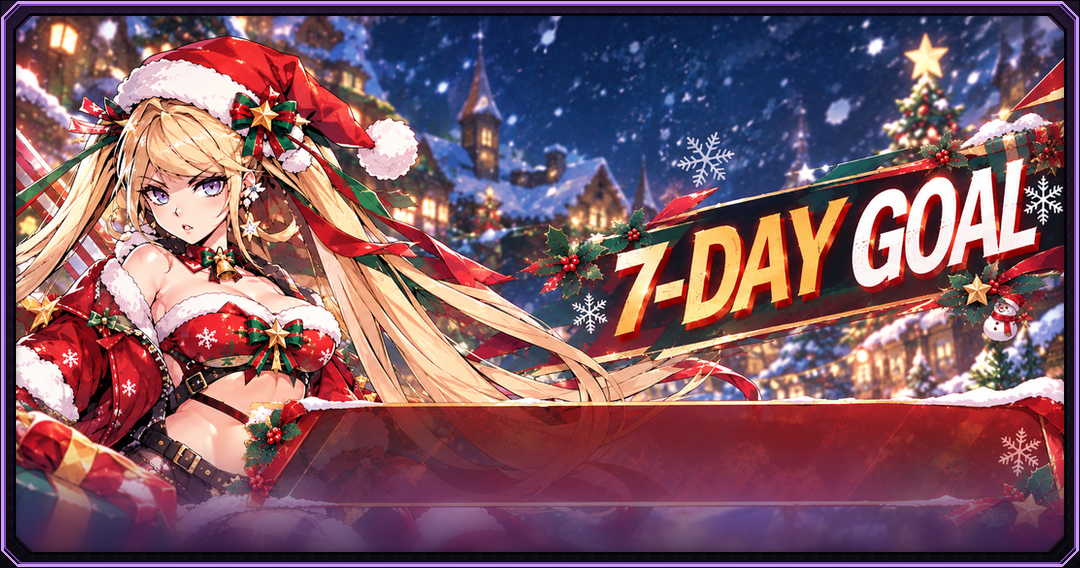
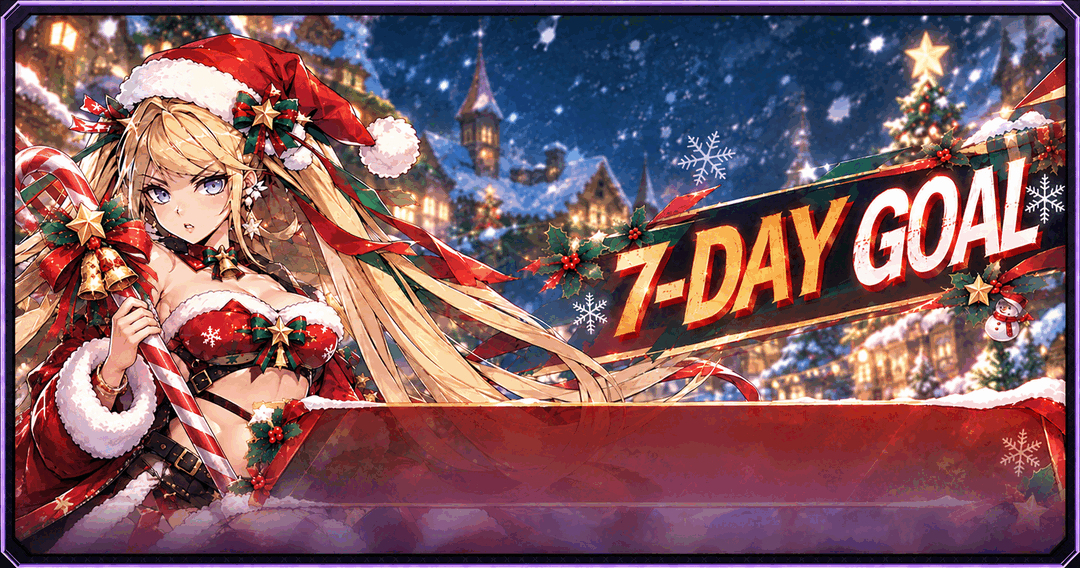
更新

diff --git a/.workbuddy/memory/2026-10-22.md b/.workbuddy/memory/2026-10-22.md
@@ -26,3 +26,27 @@
   不是两张付费表的问题。表加载分段（STableManager initMap）0 错误。
 - 测试服验证四点待玩家实测：成长基金只剩 101 可买、18 元 ST8 三包 3.75 抽、12 元 ST24 三包 2.50 抽、
   648 同页签重复条目只显示一个；招财猫第 8 轮摇出值应在 10888~12195。
+
+## 聊天占位系统文案未翻译（"有新消息"类）——根因定位 + 修复（01:00~01:15）
+
+- **现象**：英文客户端系统频道显示中文占位文案。**根因**：聊天 Redis 兜底补丁的
+  `MessageCache.SEED_TEXTS` 是 10 条中文硬编码（欢迎回来/祝您好运…），系统频道客户端
+  `GetMailConfigDesc → GetLanguageStrById` 对非数字串**原样返回**（functions.lua:2091）⇒ 任何语言都显示中文。
+  排除法走了一圈：客户端 Lua/prefab/LuaBytes、全部 base_data xlsx、服务端源码/jar/conf、
+  本地 Mongo 都没有"有新消息"字面量 ⇒ 唯一来源是运行时种子消息。
+- **修复**（源码已改，**部署未做**）：
+  - `Language.xlsx` 新增 91001612~91001621（zh/en/jp 三语），commit `cecc70f8f` 已 push；
+  - `MessageCache.java`：`SEED_TEXTS(String[])` → `SEED_TEXT_IDS(int[])`，下发 `String.valueOf(id)`，
+    JDK8 javac 对着部署 jar 编译通过（/tmp/mc_syntax，仅语法验证，产物未部署）。
+- **剩余 runbook**（依赖并行会话的 bot 改造收口后一起做）：
+  ① Jenkins `TS-Resource-Build`（`EXPORT_TABLES=true SYNC_BYTES=true REBUILD_AB=false`）同步
+  Language lua/bytes/服务端 txt——**id 未导进客户端前先部署服务端会显示裸数字 id，比中文更糟**；
+  ② 重建 jar（gradle `:serverlogic:jar` 或只热补 MessageCache.class）+ 重启 gs；
+  ③ 清 Redis `10001:CHAT_QUEUE:sys` 里的旧中文种子（7 天 TTL，不清会一直显示），清掉后会自动重播新 id 种子。
+- **bot"自己在回复自己"诊断**（并行会话 01:01 仍在改 BotManager/BotConfig，本会话未碰）：
+  - 世界频道 22:39 起基本是 Nova 独白：~20 条 bot 消息、间隔 5~15 分钟，**与配置 activeMinSec=1200（20 分钟）矛盾**
+    ⇒ 正在跑的 gs 进程（00:46 起）用的还是旧节奏代码；00:40 commit `5a2c500eb` 就是"躺平节奏口径"，新 jar（01:01 重建）尚未加载。
+  - **token 实际消耗很小**：当晚 DSH 只调了 6 次（每次 ~14s）；chatter 语料是配置表静态文案，不烧 token。
+    用户看到的"浪费 token"多数是独白观感，真正的 AI 消耗在 reply 链（有 isBotUid/lastBotMsgId/inFlight 三重防自回环，代码上没找到自回复回路）。
+  - 00:31 那条 AI 回复的对象是 GM 注入的假玩家 Tester（99990001）；00:50 前客户端点 Tester 气泡会显示 Nova 面板
+    （`6e189cacb` 已修）⇒「Nova 回复 Nova」的观感大概率来自这里。

diff --git a/.workbuddy/memory/REF-jenkins-ci.md b/.workbuddy/memory/REF-jenkins-ci.md
@@ -98,8 +98,15 @@ curl -X POST -u "$U:$T" -H "$CRUMB" --data-urlencode "DEPLOY=true" --data-urlenc
   → `~Lua/Config/Data/<X>.lua` + `TimeSpaceServer/skzc/home/java/gameserver/conf/server/<X>.txt`。
 - `TS-Client-Resources` **不导表**（只 lua↔LuaBytes + AB 体检）；`TS-Android-Release` 的 `EXPORT_TABLES` **默认 false**
   （导表会用 xlsx 覆盖手改 lua），只在 ②-2 `scripts/check_tables_exported.sh` 用 mtime 判黄球；`TS-Pipeline-Overview` 不链 job。
-- **至今没有一次成功导表**：#1 `resource_build.sh` 同行 `local` 展开 ⇒ `tag: unbound`；#2 Unity 编译错
-  `BatchResourceBuild.cs:174/176` 少 `global::` ⇒ 被解析成 `GameEditor.GameEditor.FrameTool`；#3~#6 一律 `导表=false`。
+- ✅ **导表已跑通**（更正 2026-10-20 的「至今 0 次成功」）：`#13/#14/#15` 均 `EXPORT_TABLES=True` 且 ② 环节成功
+  （`unity exit 0`，约 87s，导表顺带把 `LuaBytes/*_64.bytes` 也刷新了）。早期失败原因是
+  `#1` `resource_build.sh` 同行 `local` 展开 ⇒ `tag: unbound`、`#2` `BatchResourceBuild.cs:174/176` 少 `global::`。
+- 🔴 **改 xlsx 要生效＝不用关开发工程的 Unity**：直接触发 `TS-Resource-Build`（它在 `TimeSpaceGirl1-build` 跑），
+  开发目录开着编辑器照样导。但 `REBUILD_AB=False` 时 ⑤「Lua bundle 新鲜度」**必红**（`#15` 实锤：
+  字节码 17:15 比 bundle 15:43 新 ⇒ rc=1）—— 闸门红不代表导表失败，② 的产物是有效的。
+  要真机生效/闸门绿就得 `REBUILD_AB=True + SERVER_ENV=<环境>`（`#13` 全环节 1367s ≈ 23min）。
+- 触发模板（逐字段传，`json@file` 会被忽略）：
+  `EXPORT_TABLES=true SYNC_BYTES=true REBUILD_AB=true SERVER_ENV=正式服 LUA_FILES=`
 - 🔴 batch 导表**不刷新** `DataConfigMD5Record`、**不删孤儿 lua**（GUI `excelALLConfig` 两件都做）⇒ 导完 CRC 与磁盘不一致、
   已删表的 lua 会残留进包。
 - 🔴 服务端 txt 落在 `TimeSpaceServer/skzc/`，客户端仓 `git status -- TimeSpaceServer` 恒空 ⇒ ⑥ 变更清单看不到，必须去服务端仓提交。

diff --git a/.workbuddy/memory/MEMORY.md b/.workbuddy/memory/MEMORY.md
@@ -18,6 +18,7 @@
 - 🔴 红点排障先看 `Logs/Editor.log`（项目内，不是 `~/Library/Logs`）的 `[RedPoint]` 行；`RedPointType` **会撞号**（已修 Lead_UpLv/SpeedLvUp ↔ 扭蛋），改父子关系后**必须重启客户端**——`RedPointData` 的树是模块级局部变量，`SetParent` 对已有父节点直接 return（已加 `RedPointData:Reset()`，但旧 session 仍要重启）。
 - `ActivityRewardConfig.Values` 是 `{{参数...},{阈值...}}` 两组，但 **1216 行里 617 行只有一组** ⇒ 活动红点/面板里一律走 `ActivityGiftManager` 的 `GetMissionNeedValue(conFigData, 组号)`，**禁止直接 `Values[2][1]`**（nil 索引会把 `MainPanel.OnShow` 整条链打断）。达人活动自己的行全是两组，报错意味着 missionId 落到了别的活动的行（老号残留 / 服务端配置与外网不一致）。
 - 配置表真源 `data_execl/base_data/*.xlsx`，改后同步 CRC32 + lua + LuaBytes + 服务端 `conf/server/*.txt`；备份禁放 `base_data/`。
+- 🔴 **服务端下发给聊天/邮件/跑马灯的文案一律是客户端语言表 id（数字串），禁止中文字面量**：客户端 `GetLanguageStrById` 对非数字串原样返回（functions.lua:2091）⇒ 英文/日文包直接显示中文。占位补位消息（`MessageCache.SEED_TEXT_IDS` 91001612~91001621，commit `cecc70f8f`）就栽过：Redis 里 7 天 TTL 的旧中文种子要手工清掉才会消失。语言表 id 用尽段：10xxx 全占，新文案挂 910016xx 尾部。
 - 正式服 `server.debug=false`；versionCode 只增不减、同号只能上一次；`--status draft` 是 production 不送审的唯一姿势。
 - 删号/删英雄须清 rank 与引用（`rank-audit`/`refs-audit`），且**先归档**（`cheatctl archive`）。
 - `tk/getServerList` 的 `recommend` 只许来自 `is_new=1`；否则老客户端 `serverList[i].level` 空值比较中断 → 登录报 `SocketAddress is nil`。

diff --git a/.workbuddy/memory/REF-art-restyle.md b/.workbuddy/memory/REF-art-restyle.md
@@ -42,3 +42,10 @@
   多出来的部分会落进画布空白，出来是一块纯色死板（实测 RGB 6,18,41、逐行 std 恒定）。
   内容底边贴到带子底边后，底部常需要**竖向阴影渐变**收口（兼修同图集其它层共享行的亮度，例：floor 顶条）。
 - 🔴 同图集多层共用一行区间时，改动前后都要量「共享区亮度」对齐（`cn2-Scence_tex_002` floor 顶条 28.7→35.0 可接受）。
+- **「只加框」不要再走生图链路**（2026-10-21）：`scripts/image/frame_draw.py`（job `TS-Art-Frame`）——
+  复用 `restyle_pipeline.frame_card`，纯像素、11 条断言、`--publish-only` 与绘制分 stage。
+  紫框 = `--rim violet`；带宽 `--ratio 0.022` 与 postprocess 的 card 默认口径一致（1080x568 → 16px）。
+  🔴 幂等守卫看「外沿暗描边 + 内侧亮边」⇒ 换框必须先 `restore`，否则画面再缩 0.96、框带叠框带却不报错。
+- **虚化 + 套框是两道独立工序，顺序必须是先虚化再套框**：框会把画面缩进 0.96 并吃掉底部 16px，
+  先套框再虚化＝框带被虚化糊掉。实测 `cn2-X1_qiri_biaoti_en`（1080x568）：虚化 130px 后数字行背景
+  亮度 134→67、亮度 std 67→24（白字对比度约 3.6:1 → 9.7:1），再套 violet 卡框收口。
